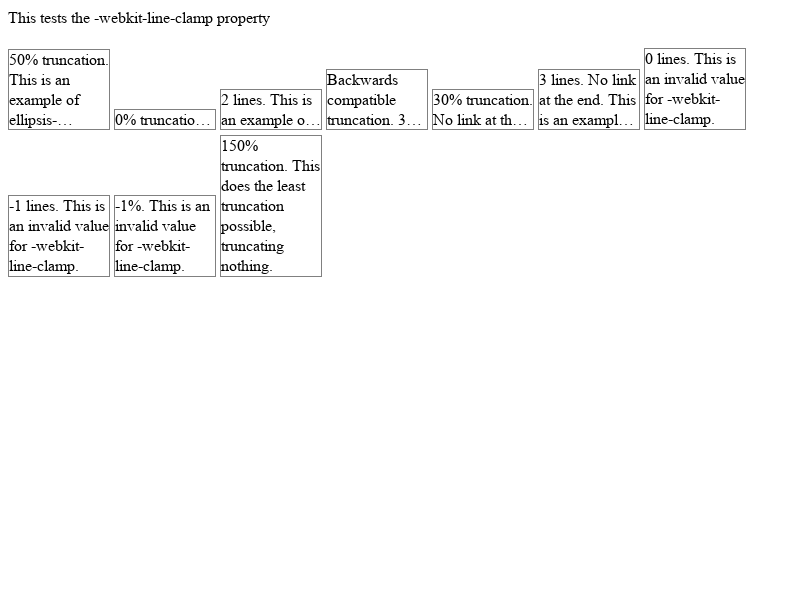
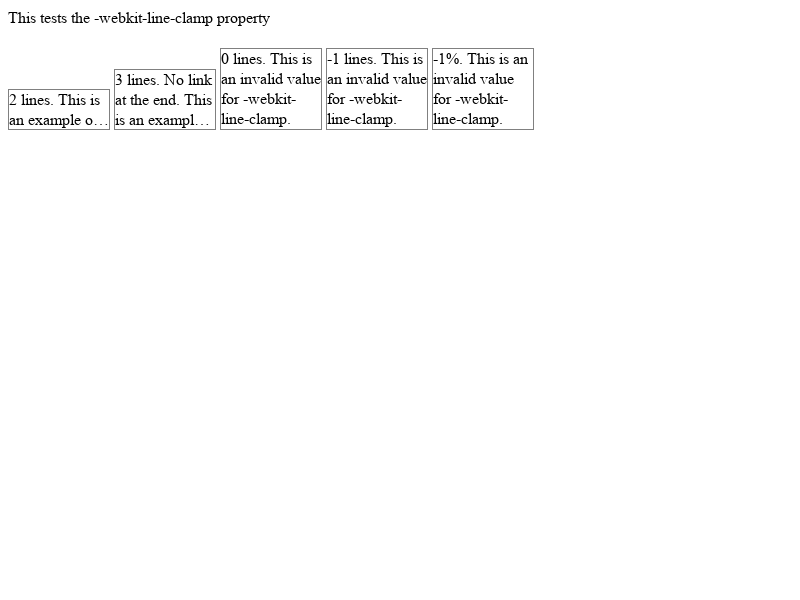
Remove %-values of -webkit-line-clamp
As above. Removes all relevant code, and layout-tests for this feature.

See intent to deprecate and remove:
https://groups.google.com/a/chromium.org/d/msg/blink-dev/-e92az54B4I/SZdhGR19DgAJ

Bug: 818691
Commit-Queue: Ian Kilpatrick <ikilpatrick@chromium.org>
Cr-Commit-Position: refs/heads/master@{#542316}

Changed region(s): [[0.0, 0.09, 0.9375, 0.48]]

diff --git a/.upstream-WebKit/LayoutTests/fast/overflow/line-clamp.html b/.upstream-WebKit/LayoutTests/fast/overflow/line-clamp.html
@@ -12,20 +12,8 @@
     </head>
     <body>
         This tests the -webkit-line-clamp property<br><br>
-        <div style="-webkit-line-clamp: 50%;">
-            50% truncation.  This is an example of ellipsis-truncation of multi-line text.<a href="#">More</a>
-        </div>
-        <div style="-webkit-line-clamp: 0%;">
-            0% truncation.  This does the most truncation possible, truncating to 1 line.<a href="#">More</a>
-        </div>
         <div style="-webkit-line-clamp: 2;">
             2 lines.  This is an example of ellipsis-truncation of multi-line text.<a href="#">More</a>
-        </div>
-        <div style="-webkit-line-clamp: 0%; -webkit-line-clamp: 3;">
-            Backwards compatible truncation.  3 lines on the latest version of WebKit.  1 line on older versions of WebKit.<a href="#">More</a>
-        </div>
-        <div style="-webkit-line-clamp: 30%;">
-            30% truncation.  No link at the end.  This is an example of ellipsis-truncation of multi-line text.
         </div>
         <div style="-webkit-line-clamp: 3">
             3 lines.  No link at the end.  This is an example of ellipsis-truncation of multi-line text.
@@ -38,9 +26,6 @@
         </div>
         <div style="-webkit-line-clamp: -1%;">
             -1%.  This is an invalid value for -webkit-line-clamp.
-        </div>
-        <div style="-webkit-line-clamp: 150%;">
-            150% truncation.  This does the least truncation possible, truncating nothing.
         </div>
     </body>
 </html>

diff --git a/.upstream-WebKit/Source/core/layout/LayoutDeprecatedFlexibleBox.cpp b/.upstream-WebKit/Source/core/layout/LayoutDeprecatedFlexibleBox.cpp
@@ -334,8 +334,7 @@ void LayoutDeprecatedFlexibleBox::StyleWillChange(
     StyleDifference diff,
     const ComputedStyle& new_style) {
   const ComputedStyle* old_style = Style();
-  if (old_style && !old_style->LineClamp().IsNone() &&
-      new_style.LineClamp().IsNone())
+  if (old_style && old_style->HasLineClamp() && !new_style.HasLineClamp())
     ClearLineClamp();
 
   LayoutBlock::StyleWillChange(diff, new_style);
@@ -868,8 +867,7 @@ void LayoutDeprecatedFlexibleBox::LayoutVerticalBox(bool relayout_children) {
   // We confine the line clamp ugliness to vertical flexible boxes (thus keeping
   // it out of
   // mainstream block layout); this is not really part of the XUL box model.
-  bool have_line_clamp = !Style()->LineClamp().IsNone();
-  if (have_line_clamp)
+  if (Style()->HasLineClamp())
     ApplyLineClamp(iterator, relayout_children);
 
   PaintLayerScrollableArea::DelayScrollOffsetClampScope delay_clamp_scope;
@@ -897,7 +895,7 @@ void LayoutDeprecatedFlexibleBox::LayoutVerticalBox(bool relayout_children) {
       }
 
       SubtreeLayoutScope layout_scope(*child);
-      if (!have_line_clamp &&
+      if (!Style()->HasLineClamp() &&
           (relayout_children || (child->IsAtomicInlineLevel() &&
                                  (child->Style()->Width().IsPercentOrCalc() ||
                                   child->Style()->Height().IsPercentOrCalc()))))
@@ -1157,9 +1155,6 @@ void LayoutDeprecatedFlexibleBox::ApplyLineClamp(FlexBoxIterator& iterator,
   UseCounter::Count(GetDocument(), WebFeature::kLineClamp);
   UseCounter::Count(GetDocument(), WebFeature::kWebkitBoxLineClamp);
 
-  if (Style()->LineClamp().IsPercentage())
-    UseCounter::Count(GetDocument(), WebFeature::kWebkitBoxLineClampPercentage);
-
   LayoutBox* child = FirstChildBox();
   if (!child) {
     UseCounter::Count(GetDocument(), WebFeature::kWebkitBoxLineClampNoChildren);
@@ -1205,11 +1200,9 @@ void LayoutDeprecatedFlexibleBox::ApplyLineClamp(FlexBoxIterator& iterator,
   // Get the number of lines and then alter all block flow children with auto
   // height to use the
   // specified height. We always try to leave room for at least one line.
-  LineClampValue line_clamp = Style()->LineClamp();
-  int num_visible_lines =
-      line_clamp.IsPercentage()
-          ? std::max(1, (max_line_count + 1) * line_clamp.Value() / 100)
-          : line_clamp.Value();
+  int num_visible_lines = Style()->LineClamp();
+  DCHECK_GT(num_visible_lines, 0);
+
   if (num_visible_lines >= max_line_count)
     return;
 

diff --git a/.upstream-WebKit/Source/core/css/properties/longhands/WebkitLineClampCustom.cpp b/.upstream-WebKit/Source/core/css/properties/longhands/WebkitLineClampCustom.cpp
@@ -14,13 +14,9 @@ const CSSValue* WebkitLineClamp::ParseSingleValue(
     CSSParserTokenRange& range,
     const CSSParserContext& context,
     const CSSParserLocalContext&) const {
-  if (range.Peek().GetType() != kPercentageToken &&
-      range.Peek().GetType() != kNumberToken)
+  if (range.Peek().GetType() != kNumberToken)
     return nullptr;
-  CSSPrimitiveValue* clamp_value =
-      CSSPropertyParserHelpers::ConsumePercent(range, kValueRangeNonNegative);
-  if (clamp_value)
-    return clamp_value;
+
   // When specifying number of lines, don't allow 0 as a valid value.
   return CSSPropertyParserHelpers::ConsumePositiveInteger(range);
 }
@@ -31,12 +27,10 @@ const CSSValue* WebkitLineClamp::CSSValueFromComputedStyleInternal(
     const LayoutObject*,
     Node* styled_node,
     bool allow_visited_style) const {
-  if (style.LineClamp().IsNone())
+  if (!style.HasLineClamp())
     return CSSIdentifierValue::Create(CSSValueNone);
-  return CSSPrimitiveValue::Create(
-      style.LineClamp().Value(), style.LineClamp().IsPercentage()
-                                     ? CSSPrimitiveValue::UnitType::kPercentage
-                                     : CSSPrimitiveValue::UnitType::kNumber);
+  return CSSPrimitiveValue::Create(style.LineClamp(),
+                                   CSSPrimitiveValue::UnitType::kNumber);
 }
 
 }  // namespace CSSLonghand

diff --git a/.upstream-WebKit/Source/core/css/CSSPrimitiveValueMappings.h b/.upstream-WebKit/Source/core/css/CSSPrimitiveValueMappings.h
@@ -38,7 +38,6 @@
 #include "core/css/CSSReflectionDirection.h"
 #include "core/css/CSSToLengthConversionData.h"
 #include "core/style/ComputedStyleConstants.h"
-#include "core/style/LineClampValue.h"
 #include "core/style/SVGComputedStyleDefs.h"
 #include "platform/Length.h"
 #include "platform/ThemeTypes.h"
@@ -85,25 +84,6 @@ template <>
 inline float CSSPrimitiveValue::ConvertTo() const {
   DCHECK(IsNumber());
   return clampTo<float>(GetDoubleValue());
-}
-
-template <>
-inline CSSPrimitiveValue::CSSPrimitiveValue(LineClampValue i)
-    : CSSValue(kPrimitiveClass) {
-  Init(i.IsPercentage() ? UnitType::kPercentage : UnitType::kInteger);
-  value_.num = static_cast<double>(i.Value());
-}
-
-template <>
-inline LineClampValue CSSPrimitiveValue::ConvertTo() const {
-  if (GetType() == UnitType::kInteger)
-    return LineClampValue(clampTo<int>(value_.num), LineClampType::kLineCount);
-
-  if (GetType() == UnitType::kPercentage)
-    return LineClampValue(clampTo<int>(value_.num), LineClampType::kPercentage);
-
-  NOTREACHED();
-  return LineClampValue();
 }
 
 // TODO(sashab): Move these to CSSIdentifierValueMappings.h, and update to use

diff --git a/.upstream-WebKit/Source/core/layout/LayoutBox.cpp b/.upstream-WebKit/Source/core/layout/LayoutBox.cpp
@@ -671,8 +671,7 @@ void LayoutBox::ScrollRectToVisibleRecursive(
   bool restricted_by_line_clamp = false;
   if (ContainingBlock()) {
     parent_box = ContainingBlock();
-    restricted_by_line_clamp =
-        !ContainingBlock()->Style()->LineClamp().IsNone();
+    restricted_by_line_clamp = ContainingBlock()->Style()->HasLineClamp();
   }
 
   if (!IsLayoutView() && HasOverflowClip() && !restricted_by_line_clamp) {
@@ -1163,7 +1162,7 @@ void LayoutBox::ScrollByRecursively(const ScrollOffset& delta) {
 
   bool restricted_by_line_clamp = false;
   if (Parent())
-    restricted_by_line_clamp = !Parent()->Style()->LineClamp().IsNone();
+    restricted_by_line_clamp = Parent()->Style()->HasLineClamp();
 
   if (HasOverflowClip() && !restricted_by_line_clamp) {
     PaintLayerScrollableArea* scrollable_area = GetScrollableArea();

diff --git a/.upstream-WebKit/Source/core/style/ComputedStyle.h b/.upstream-WebKit/Source/core/style/ComputedStyle.h
@@ -553,6 +553,9 @@ class ComputedStyle : public ComputedStyleBase,
   ContentData* GetContentData() const { return ContentInternal().Get(); }
   void SetContent(ContentData*);
 
+  // -webkit-line-clamp
+  bool HasLineClamp() const { return LineClamp() > 0; }
+
   // -webkit-box-ordinal-group
   void SetBoxOrdinalGroup(unsigned og) {
     SetBoxOrdinalGroupInternal(
